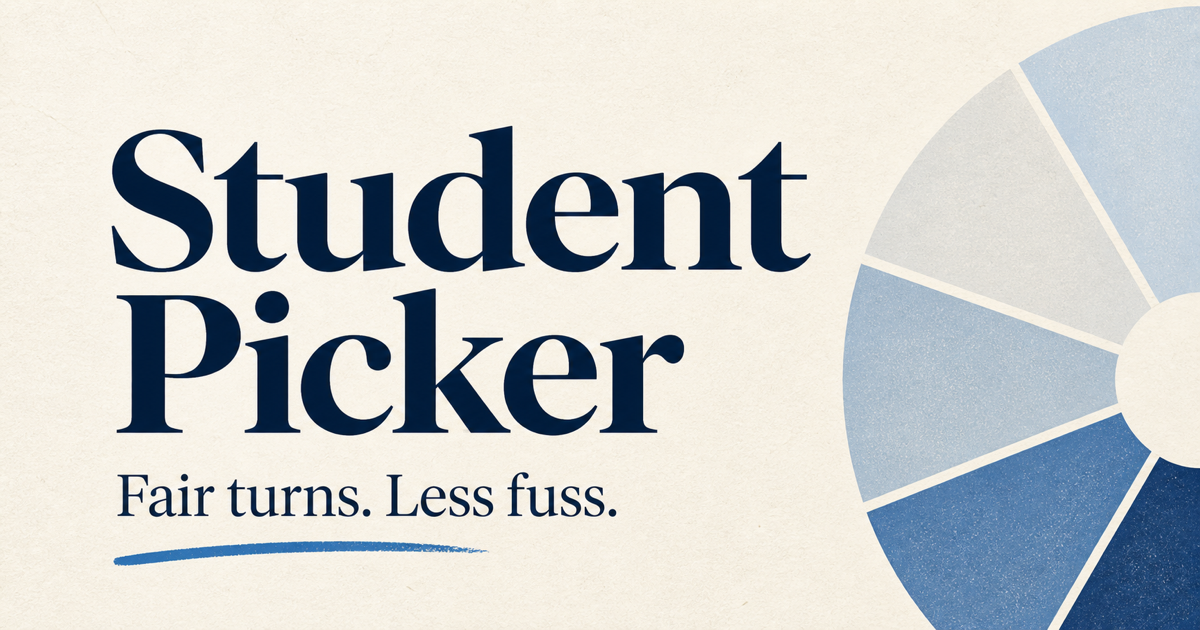
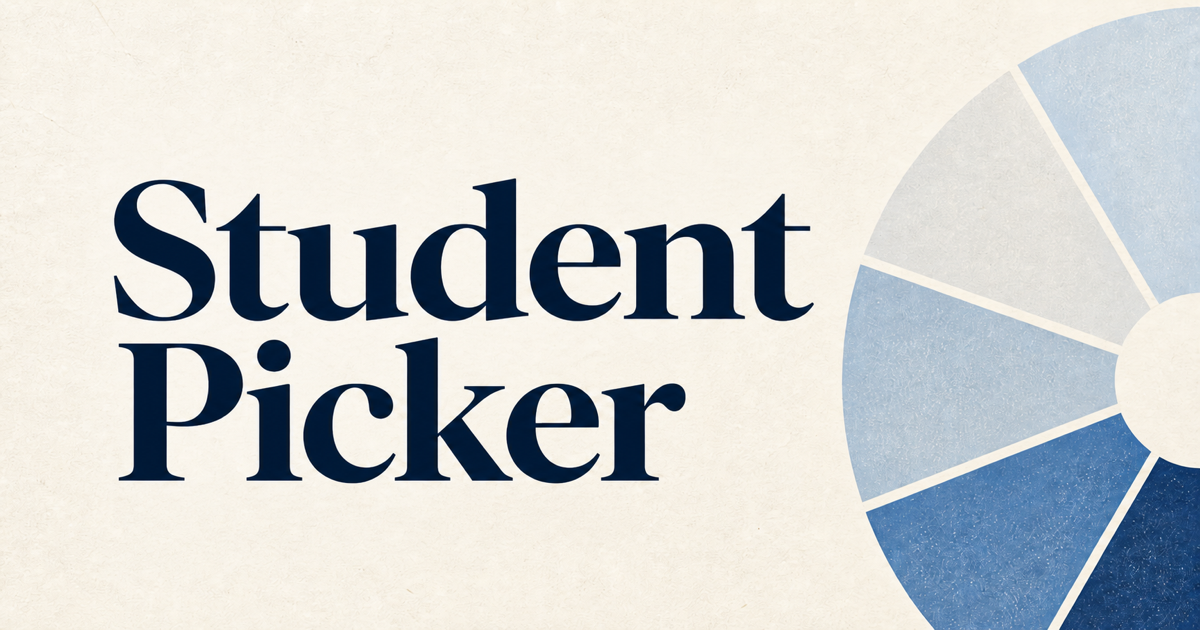
refine: simplify picker layout and copy

diff --git a/src/app/class/[id]/page.tsx b/src/app/class/[id]/page.tsx
@@ -120,10 +120,10 @@ export default function ClassPage() {
     return (
       <main className="mx-auto flex min-h-screen max-w-md flex-col justify-center px-6">
         <p className="mb-3 text-sm font-semibold text-[var(--blue)]">Student Picker</p>
-        <h1 className="text-3xl font-semibold tracking-tight text-[var(--ink)]">We couldn’t find that class.</h1>
-        <p className="mt-3 text-sm leading-6 text-[var(--muted)]">It may have been removed, or the link may be out of date.</p>
+        <h1 className="text-3xl font-semibold tracking-tight text-[var(--ink)]">Class not found</h1>
+        <p className="mt-3 text-sm leading-6 text-[var(--muted)]">It may have been deleted.</p>
         <button onClick={() => router.push('/')} className="mt-7 w-fit rounded-full bg-[var(--ink)] px-5 py-2.5 text-sm font-semibold text-white transition hover:bg-[#26324a]">
-          Back to your classes
+          Back to classes
         </button>
       </main>
     );
@@ -190,46 +190,44 @@ export default function ClassPage() {
       <main className="mx-auto w-full max-w-7xl px-4 py-7 sm:px-7 sm:py-10">
         {totalStudents === 0 ? (
           <div className="mx-auto max-w-xl border-t border-[var(--line)] py-16 text-center sm:py-24">
-            <h1 className="text-2xl font-semibold tracking-tight text-[var(--ink)]">Add your students to begin</h1>
-            <p className="mx-auto mt-3 max-w-sm text-sm leading-6 text-[var(--muted)]">Paste a full roster or add names one at a time. You can edit the list whenever you need.</p>
+            <h1 className="text-2xl font-semibold tracking-tight text-[var(--ink)]">No students yet</h1>
+            <p className="mx-auto mt-3 max-w-sm text-sm leading-6 text-[var(--muted)]">Add or paste your class list.</p>
             <button onClick={() => setShowRoster(true)} className="mt-7 rounded-full bg-[var(--blue)] px-5 py-2.5 text-sm font-semibold text-white transition hover:bg-[var(--blue-dark)]">
               Add students
             </button>
           </div>
         ) : (
-          <div className="grid grid-cols-1 gap-8 lg:grid-cols-[minmax(0,1fr)_20rem] lg:gap-10 xl:grid-cols-[minmax(0,1fr)_22rem]">
+          <div className="grid grid-cols-1 gap-10 lg:grid-cols-[minmax(0,1fr)_22rem] lg:gap-12 xl:grid-cols-[minmax(0,1fr)_24rem] xl:gap-14">
             <section className="min-w-0">
               {uncalledStudents.length === 0 && calledStudents.length > 0 && (
                 <div className="mb-6 flex flex-wrap items-center justify-between gap-3 border-y border-[var(--line)] py-3 text-sm">
-                  <p className="font-semibold text-[var(--ink)]">Everyone had a turn. A new round will start in a moment.</p>
-                  <button onClick={handleResetCycle} className="font-semibold text-[var(--blue)] hover:underline">Start now</button>
+                  <p className="font-semibold text-[var(--ink)]">Round complete. Resetting…</p>
+                  <button onClick={handleResetCycle} className="font-semibold text-[var(--blue)] hover:underline">Reset now</button>
                 </div>
               )}
               <SpinnerWheel names={uncalledNames} isSpinning={isSpinning} onSpinStart={() => setIsSpinning(true)} onSpinComplete={handleSpinComplete} />
             </section>
 
-            <aside className="overflow-hidden rounded-[18px] bg-white shadow-[0_18px_50px_-38px_rgba(23,32,51,0.5)] ring-1 ring-black/[0.04]">
-              <div className="px-5 py-5">
+            <aside className="self-start">
+              <div className="border-y border-[var(--line)] px-1 py-5">
                 <div className="flex items-center justify-between">
                   <div>
-                    <p className="text-xs font-bold uppercase tracking-[0.15em] text-[var(--blue)]">This round</p>
-                    <p className="mt-1 text-sm text-[var(--muted)]">Every name gets one turn.</p>
+                    <p className="text-sm font-semibold text-[var(--ink)]">Round progress</p>
+                    <p className="mt-1 text-xs text-[var(--muted)]">{calledCount} of {totalStudents} picked</p>
                   </div>
                   <span className="text-2xl font-semibold tabular-nums text-[var(--ink)]">{progressPercent}%</span>
                 </div>
                 <div className="mt-4 h-1.5 overflow-hidden rounded-full bg-[var(--paper-deep)]">
                   <div className="h-full rounded-full bg-[var(--blue)] transition-all duration-500" style={{ width: `${progressPercent}%` }} />
                 </div>
-                <div className="mt-4 flex gap-6 text-xs text-[var(--muted)]">
-                  <span><strong className="text-base font-semibold text-[var(--ink)]">{uncalledStudents.length}</strong> left</span>
-                  <span><strong className="text-base font-semibold text-[var(--ink)]">{calledStudents.length}</strong> picked</span>
-                </div>
               </div>
 
-              <StudentList title="Still to pick" students={uncalledStudents} variant="uncalled" />
-              <StudentList title="Already picked" students={calledStudents} variant="called" onPutBack={handlePutBack} />
+              <div className="mt-5 overflow-hidden rounded-[14px] bg-white shadow-[0_14px_40px_-34px_rgba(23,32,51,0.55)] ring-1 ring-black/[0.04]">
+                <StudentList title="Not picked" students={uncalledStudents} variant="uncalled" />
+                <StudentList title="Picked" students={calledStudents} variant="called" onPutBack={handlePutBack} />
+              </div>
 
-              <button onClick={() => setShowResetConfirm(true)} className="flex w-full items-center justify-center border-t border-[var(--line)] px-4 py-3.5 text-sm font-semibold text-[var(--muted)] transition hover:bg-[#fafaf8] hover:text-[var(--ink)] sm:hidden">
+              <button onClick={() => setShowResetConfirm(true)} className="mt-3 flex w-full items-center justify-center px-4 py-3 text-sm font-semibold text-[var(--muted)] transition hover:text-[var(--ink)] sm:hidden">
                 Reset round
               </button>
             </aside>
@@ -249,9 +247,9 @@ export default function ClassPage() {
       />
       <ConfirmDialog
         isOpen={showResetConfirm}
-        title="Start a new round?"
-        message="Everyone will return to the picker, ready to be chosen again."
-        confirmLabel="Start new round"
+        title="Reset round?"
+        message="All students will return to the wheel."
+        confirmLabel="Reset"
         variant="warning"
         onConfirm={handleResetCycle}
         onCancel={() => setShowResetConfirm(false)}

diff --git a/src/components/SpinnerWheel.tsx b/src/components/SpinnerWheel.tsx
@@ -9,7 +9,7 @@ interface SpinnerWheelProps {
   onSpinStart: () => void;
 }
 
-// Cheerful, classroom-friendly colors with enough contrast for white labels.
+// High-contrast wheel colors for white labels.
 const SEGMENT_COLORS = [
   '#2f67d8',
   '#7559b7',
@@ -282,8 +282,8 @@ export default function SpinnerWheel({
             <div className="mx-auto mb-3 flex h-11 w-11 items-center justify-center rounded-full bg-white text-xl text-[var(--green)] shadow-sm">
               ✓
             </div>
-            <p className="text-sm font-semibold text-[var(--ink)]">Everyone had a turn</p>
-            <p className="mt-1 text-xs leading-5 text-[var(--muted)]">Getting a fresh round ready.</p>
+            <p className="text-sm font-semibold text-[var(--ink)]">Round complete</p>
+            <p className="mt-1 text-xs leading-5 text-[var(--muted)]">Resetting…</p>
           </div>
         </div>
       </section>
@@ -298,13 +298,12 @@ export default function SpinnerWheel({
     >
       <div className="mb-6 flex w-full max-w-xl items-start justify-between gap-4">
         <div>
-          <p className="text-xs font-bold uppercase tracking-[0.18em] text-[var(--blue)]">Fair pick</p>
-          <h2 id="student-picker-title" className="mt-1 text-2xl font-semibold tracking-tight text-[var(--ink)]">
-            {isSpinning ? 'Choosing a student…' : 'Who’s up next?'}
+          <h2 id="student-picker-title" className="text-2xl font-semibold tracking-tight text-[var(--ink)]">
+            {isSpinning ? 'Picking…' : 'Pick a student'}
           </h2>
         </div>
         <div className="shrink-0 rounded-full bg-white px-3 py-1.5 text-xs font-semibold text-[var(--muted)] shadow-sm ring-1 ring-black/[0.04]">
-          {names.length} {names.length === 1 ? 'student' : 'students'} left
+          {names.length} remaining
         </div>
       </div>
 
@@ -346,20 +345,20 @@ export default function SpinnerWheel({
       </div>
 
       <p className="mt-4 text-center text-xs text-[var(--muted)]">
-        Tap the wheel or press Enter to make a fair pick.
+        Tap the wheel to spin.
       </p>
 
       <div className="mt-5 min-h-[92px] w-full max-w-xl" aria-live="polite" aria-atomic="true">
         {showResult && selectedName ? (
           <div className="animate-slide-up border-y border-[#cdd9f7] bg-[var(--blue-soft)] px-5 py-4 text-center motion-reduce:animate-none">
-            <p className="text-xs font-bold uppercase tracking-[0.16em] text-[var(--blue)]">Up next</p>
+            <p className="text-xs font-bold uppercase tracking-[0.16em] text-[var(--blue)]">Selected</p>
             <p className="mt-1 break-words text-2xl font-semibold leading-tight text-[var(--ink)] [overflow-wrap:anywhere] sm:text-3xl">
               {selectedName}
             </p>
           </div>
         ) : (
           <div className="flex min-h-[92px] items-center justify-center border-y border-[var(--line)] px-5 text-center text-sm text-[var(--muted)]">
-            {isSpinning ? 'Watching the wheel…' : 'The selected student’s full name will appear here.'}
+            {isSpinning ? 'Picking…' : 'The name will appear here.'}
           </div>
         )}
       </div>

diff --git a/src/components/RosterModal.tsx b/src/components/RosterModal.tsx
@@ -31,8 +31,6 @@ export default function RosterModal({ isOpen, classPeriod, onClose, onAddStudent
   if (!isOpen || !classPeriod) return null;
 
   const students = classPeriod.students;
-  const remainingCount = students.filter((student) => !student.called).length;
-  const pickedCount = students.length - remainingCount;
 
   const closeModal = () => {
     setConfirmDeleteId(null);
@@ -99,9 +97,8 @@ export default function RosterModal({ isOpen, classPeriod, onClose, onAddStudent
       <div className="flex max-h-[92vh] w-full max-w-2xl flex-col overflow-hidden rounded-[18px] bg-white shadow-2xl" role="dialog" aria-modal="true" aria-labelledby="roster-title">
         <header className="flex items-start justify-between gap-4 border-b border-[var(--line)] px-5 py-5 sm:px-7 sm:py-6">
           <div className="min-w-0">
-            <p className="text-xs font-bold uppercase tracking-[0.16em] text-[var(--blue)]">Roster</p>
-            <h2 id="roster-title" className="mt-1 truncate text-2xl font-semibold tracking-tight text-[var(--ink)]">{classPeriod.name}</h2>
-            <p className="mt-1 text-sm text-[var(--muted)]">{students.length} students · {remainingCount} left · {pickedCount} picked</p>
+            <h2 id="roster-title" className="truncate text-2xl font-semibold tracking-tight text-[var(--ink)]">Class roster</h2>
+            <p className="mt-1 text-sm text-[var(--muted)]">{classPeriod.name} · {students.length} students</p>
           </div>
           <button onClick={closeModal} className="grid h-9 w-9 shrink-0 place-items-center rounded-full text-[var(--muted)] transition hover:bg-[#f4f3ef] hover:text-[var(--ink)]" aria-label="Close roster">
             <svg className="h-5 w-5" fill="none" viewBox="0 0 24 24" stroke="currentColor" strokeWidth="2"><path strokeLinecap="round" strokeLinejoin="round" d="M6 18L18 6M6 6l12 12" /></svg>
@@ -135,7 +132,7 @@ export default function RosterModal({ isOpen, classPeriod, onClose, onAddStudent
           <section className="mt-7">
             <div className="mb-2 flex items-center justify-between px-1">
               <h3 className="text-sm font-semibold text-[var(--ink)]">Students</h3>
-              {students.length > 0 && <p className="text-xs text-[var(--muted)]">Select a name to edit</p>}
+              {students.length > 0 && <p className="text-xs text-[var(--muted)]">Click a name to edit</p>}
             </div>
 
             {students.length === 0 ? (

diff --git a/src/app/page.tsx b/src/app/page.tsx
@@ -110,10 +110,9 @@ export default function Dashboard() {
       <main className="mx-auto max-w-5xl px-5 py-10 sm:px-8 sm:py-14">
         <div className="mb-8 flex items-end justify-between gap-6">
           <div>
-            <p className="mb-2 text-sm font-semibold text-[var(--blue)]">Your classroom</p>
             <h2 className="text-3xl font-semibold tracking-[-0.035em] text-[var(--ink)] sm:text-4xl">Your classes</h2>
             <p className="mt-2 max-w-xl text-sm leading-6 text-[var(--muted)]">
-              Pick students fairly, keep track of turns, and start fresh whenever you need.
+              Select a class to start.
             </p>
           </div>
           {classes.length > 0 && (
@@ -126,15 +125,13 @@ export default function Dashboard() {
         {classes.length === 0 ? (
           <div className="border-t border-[var(--line)] py-16 sm:py-20">
             <div className="max-w-md">
-              <h3 className="text-xl font-semibold text-[var(--ink)]">Add your first class</h3>
-              <p className="mt-2 text-sm leading-6 text-[var(--muted)]">
-                Add a class roster once, then use the picker whenever it is time for someone to share.
-              </p>
+              <h3 className="text-xl font-semibold text-[var(--ink)]">No classes yet</h3>
+              <p className="mt-2 text-sm leading-6 text-[var(--muted)]">Create a class and add your students.</p>
               <button
                 onClick={() => setShowAddModal(true)}
                 className="mt-6 inline-flex items-center gap-2 rounded-full bg-[var(--ink)] px-5 py-2.5 text-sm font-semibold text-white transition hover:bg-[#26324a]"
               >
-                Create a class
+                Add class
                 <svg className="h-4 w-4" fill="none" viewBox="0 0 24 24" stroke="currentColor" strokeWidth="2">
                   <path strokeLinecap="round" strokeLinejoin="round" d="M5 12h14m-5-5 5 5-5 5" />
                 </svg>
@@ -169,10 +166,6 @@ export default function Dashboard() {
           </div>
         )}
       </main>
-
-      <footer className="mx-auto max-w-5xl px-5 pb-8 text-xs text-[var(--muted)] sm:px-8">
-        Built for calm, fair turns in every classroom.
-      </footer>
 
       <AddClassModal isOpen={showAddModal} onClose={() => setShowAddModal(false)} onAdd={handleAddClass} />
       <EditClassModal

diff --git a/src/components/LoginScreen.tsx b/src/components/LoginScreen.tsx
@@ -56,22 +56,19 @@ export default function LoginScreen() {
         <div className="relative z-10 text-lg font-semibold tracking-tight">Student Picker</div>
 
         <div className="relative z-10 max-w-md py-10 lg:py-0">
-          <p className="mb-3 text-xs font-bold uppercase tracking-[0.2em] text-[#9db8ff]">For every classroom</p>
-          <h1 className="text-4xl font-semibold leading-[1.08] tracking-[-0.04em] sm:text-5xl">Fair turns.<br />Less fuss.</h1>
+          <h1 className="text-4xl font-semibold leading-[1.08] tracking-[-0.04em] sm:text-5xl">Pick a student<br />at random.</h1>
           <p className="mt-5 max-w-sm text-sm leading-6 text-white/68 sm:text-base sm:leading-7">
-            Save every class roster, pick students without repeats, and keep the lesson moving.
+            Save your classes and student lists.
           </p>
         </div>
 
-        <p className="relative z-10 hidden text-xs text-white/45 lg:block">Simple enough for the classroom screen. Useful enough for every day.</p>
         <div className="absolute -bottom-40 -right-40 h-96 w-96 rounded-full border-[72px] border-[#2f67d8]/45" aria-hidden="true" />
       </section>
 
       <section className="flex items-center justify-center px-7 py-12 sm:px-12 lg:py-16">
         <div className="w-full max-w-sm">
-          <p className="text-sm font-semibold text-[var(--blue)]">Welcome</p>
-          <h2 className="mt-2 text-3xl font-semibold tracking-[-0.035em] text-[var(--ink)]">{isSignUp ? 'Create your account' : 'Sign in to your classes'}</h2>
-          <p className="mt-2 text-sm leading-6 text-[var(--muted)]">Each teacher gets their own private classes and rosters.</p>
+          <h2 className="text-3xl font-semibold tracking-[-0.035em] text-[var(--ink)]">{isSignUp ? 'Create account' : 'Sign in'}</h2>
+          <p className="mt-2 text-sm leading-6 text-[var(--muted)]">Your classes are saved to your account.</p>
 
           {error && (
             <div role="alert" className="mt-6 border-l-2 border-[var(--red)] bg-[#fff7f5] px-4 py-3 text-sm text-[#9e3d3d]">

diff --git a/src/components/AddClassModal.tsx b/src/components/AddClassModal.tsx
@@ -33,9 +33,7 @@ export default function AddClassModal({ isOpen, onClose, onAdd }: AddClassModalP
       <button className="absolute inset-0 cursor-default bg-[var(--ink)]/45 backdrop-blur-sm" onClick={closeModal} aria-label="Close dialog" />
       <div role="dialog" aria-modal="true" aria-labelledby="add-class-title" className="animate-slide-up relative w-full max-w-md overflow-hidden rounded-[18px] bg-white shadow-2xl">
         <div className="px-6 pb-2 pt-6 sm:px-7 sm:pt-7">
-          <p className="text-xs font-bold uppercase tracking-[0.16em] text-[var(--blue)]">New class</p>
-          <h2 id="add-class-title" className="mt-1 text-2xl font-semibold tracking-tight text-[var(--ink)]">Set up a class</h2>
-          <p className="mt-2 text-sm leading-6 text-[var(--muted)]">Give it the name and period teachers and students already know.</p>
+          <h2 id="add-class-title" className="text-2xl font-semibold tracking-tight text-[var(--ink)]">Add class</h2>
         </div>
         <form onSubmit={handleSubmit} className="px-6 pb-6 pt-5 sm:px-7 sm:pb-7">
           <div className="space-y-5">

diff --git a/src/components/HistoryLog.tsx b/src/components/HistoryLog.tsx
@@ -39,8 +39,7 @@ export default function HistoryLog({ isOpen, onClose, uid, classId, className }:
       <div className="flex max-h-[88vh] w-full max-w-lg flex-col overflow-hidden rounded-[18px] bg-white shadow-2xl" role="dialog" aria-modal="true" aria-labelledby="history-title">
         <header className="flex items-start justify-between gap-4 border-b border-[var(--line)] px-5 py-5 sm:px-7 sm:py-6">
           <div className="min-w-0">
-            <p className="text-xs font-bold uppercase tracking-[0.16em] text-[var(--blue)]">History</p>
-            <h2 id="history-title" className="mt-1 text-2xl font-semibold tracking-tight text-[var(--ink)]">Past picks</h2>
+            <h2 id="history-title" className="text-2xl font-semibold tracking-tight text-[var(--ink)]">History</h2>
             <p className="mt-1 truncate text-sm text-[var(--muted)]">{className}</p>
           </div>
           <button onClick={onClose} className="grid h-9 w-9 shrink-0 place-items-center rounded-full text-[var(--muted)] transition hover:bg-[#f4f3ef] hover:text-[var(--ink)]" aria-label="Close history">

diff --git a/src/components/EditClassModal.tsx b/src/components/EditClassModal.tsx
@@ -27,8 +27,7 @@ export default function EditClassModal({ isOpen, classPeriod, onClose, onSave }:
       <button className="absolute inset-0 cursor-default bg-[var(--ink)]/45 backdrop-blur-sm" onClick={onClose} aria-label="Close dialog" />
       <div role="dialog" aria-modal="true" aria-labelledby="edit-class-title" className="animate-slide-up relative w-full max-w-md overflow-hidden rounded-[18px] bg-white shadow-2xl">
         <div className="px-6 pb-2 pt-6 sm:px-7 sm:pt-7">
-          <p className="text-xs font-bold uppercase tracking-[0.16em] text-[var(--blue)]">Class details</p>
-          <h2 id="edit-class-title" className="mt-1 text-2xl font-semibold tracking-tight text-[var(--ink)]">Edit class</h2>
+          <h2 id="edit-class-title" className="text-2xl font-semibold tracking-tight text-[var(--ink)]">Edit class</h2>
         </div>
         <form onSubmit={handleSubmit} className="px-6 pb-6 pt-5 sm:px-7 sm:pb-7">
           <div className="space-y-5">

diff --git a/src/app/layout.tsx b/src/app/layout.tsx
@@ -11,16 +11,16 @@ const siteUrl = process.env.NEXT_PUBLIC_SITE_URL
 export const metadata: Metadata = {
   metadataBase: siteUrl,
   title: "Student Picker",
-  description: "A fair, friendly student picker built for every classroom.",
+  description: "Randomly pick students without repeats.",
   openGraph: {
     title: "Student Picker",
-    description: "Fair turns. Less fuss.",
+    description: "Randomly pick students without repeats.",
     images: [{ url: "/og.png", width: 1200, height: 630, alt: "Student Picker — Fair turns. Less fuss." }],
   },
   twitter: {
     card: "summary_large_image",
     title: "Student Picker",
-    description: "Fair turns. Less fuss.",
+    description: "Randomly pick students without repeats.",
     images: ["/og.png"],
   },
 };

diff --git a/src/components/StudentList.tsx b/src/components/StudentList.tsx
@@ -39,8 +39,8 @@ export default function StudentList({ title, students, variant, onPutBack }: Stu
       {!isCollapsed && (
         <div className="custom-scrollbar max-h-60 overflow-y-auto border-t border-[var(--line)]/70">
           {sortedStudents.length === 0 ? (
-            <p className="px-5 py-5 text-center text-xs text-[var(--muted)]">
-              {variant === 'uncalled' ? 'Everyone has been picked' : 'No one has been picked yet'}
+            <p className="px-5 py-6 text-center text-xs text-[var(--muted)]">
+              {variant === 'uncalled' ? 'None remaining' : 'No students yet'}
             </p>
           ) : (
             <ul className="divide-y divide-[var(--line)]/60 px-5">
